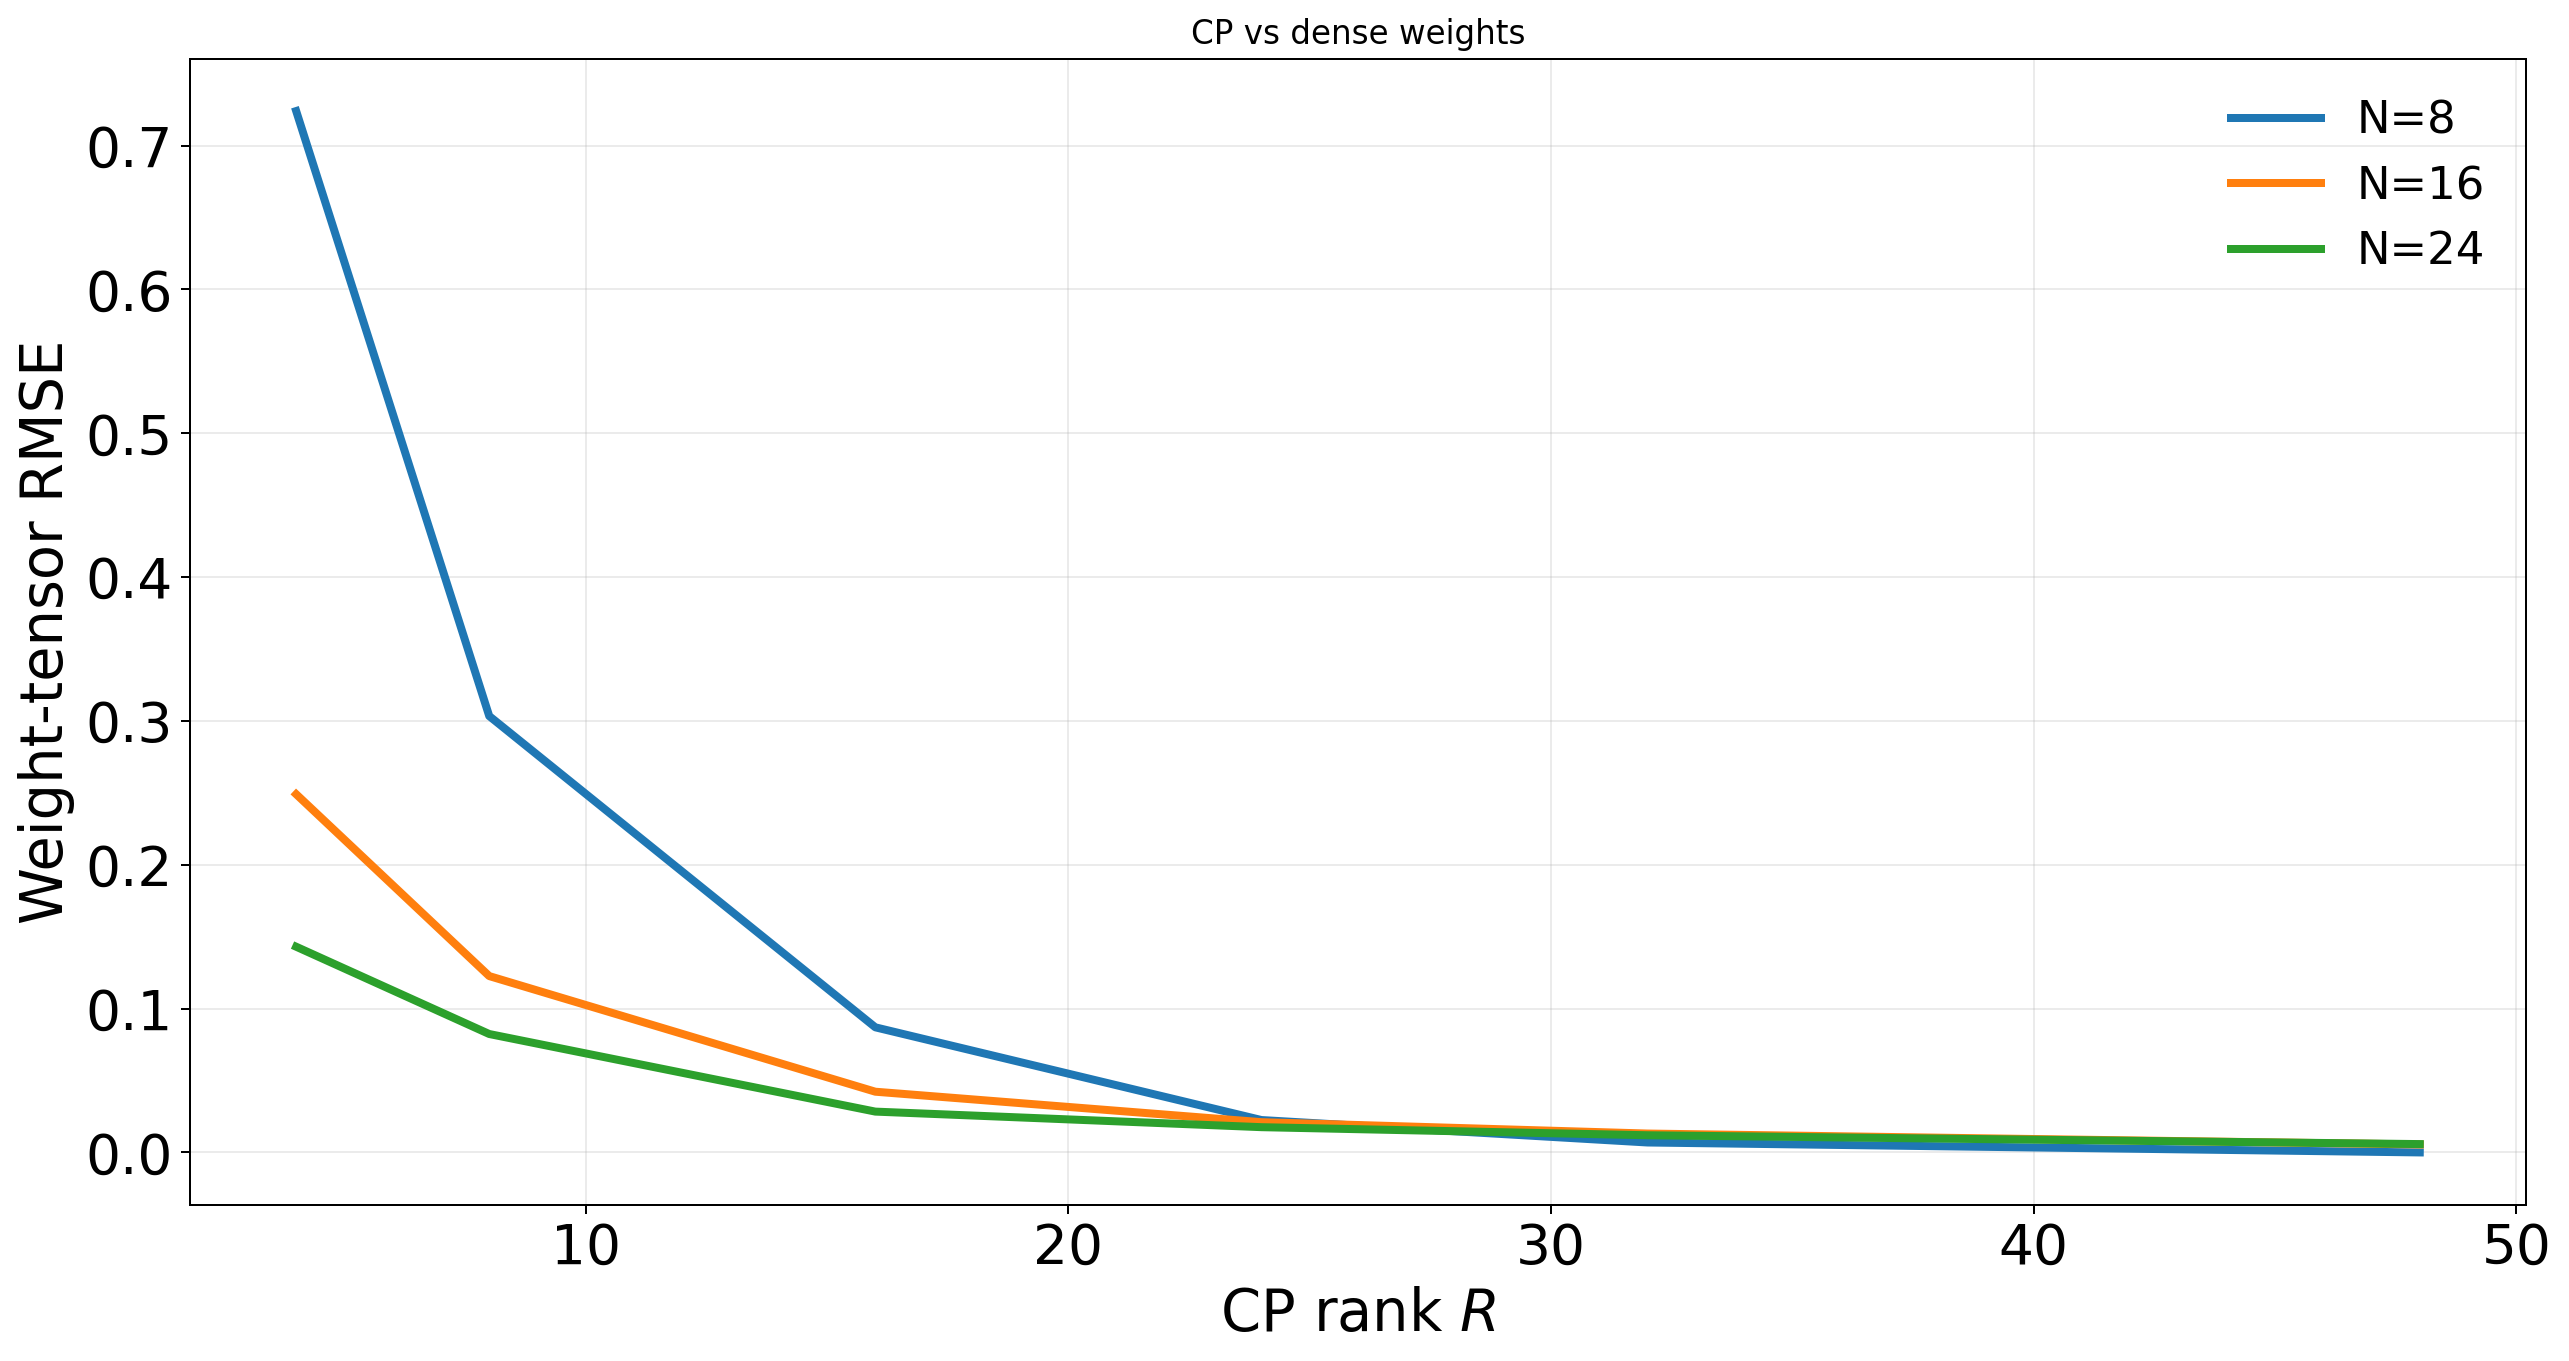
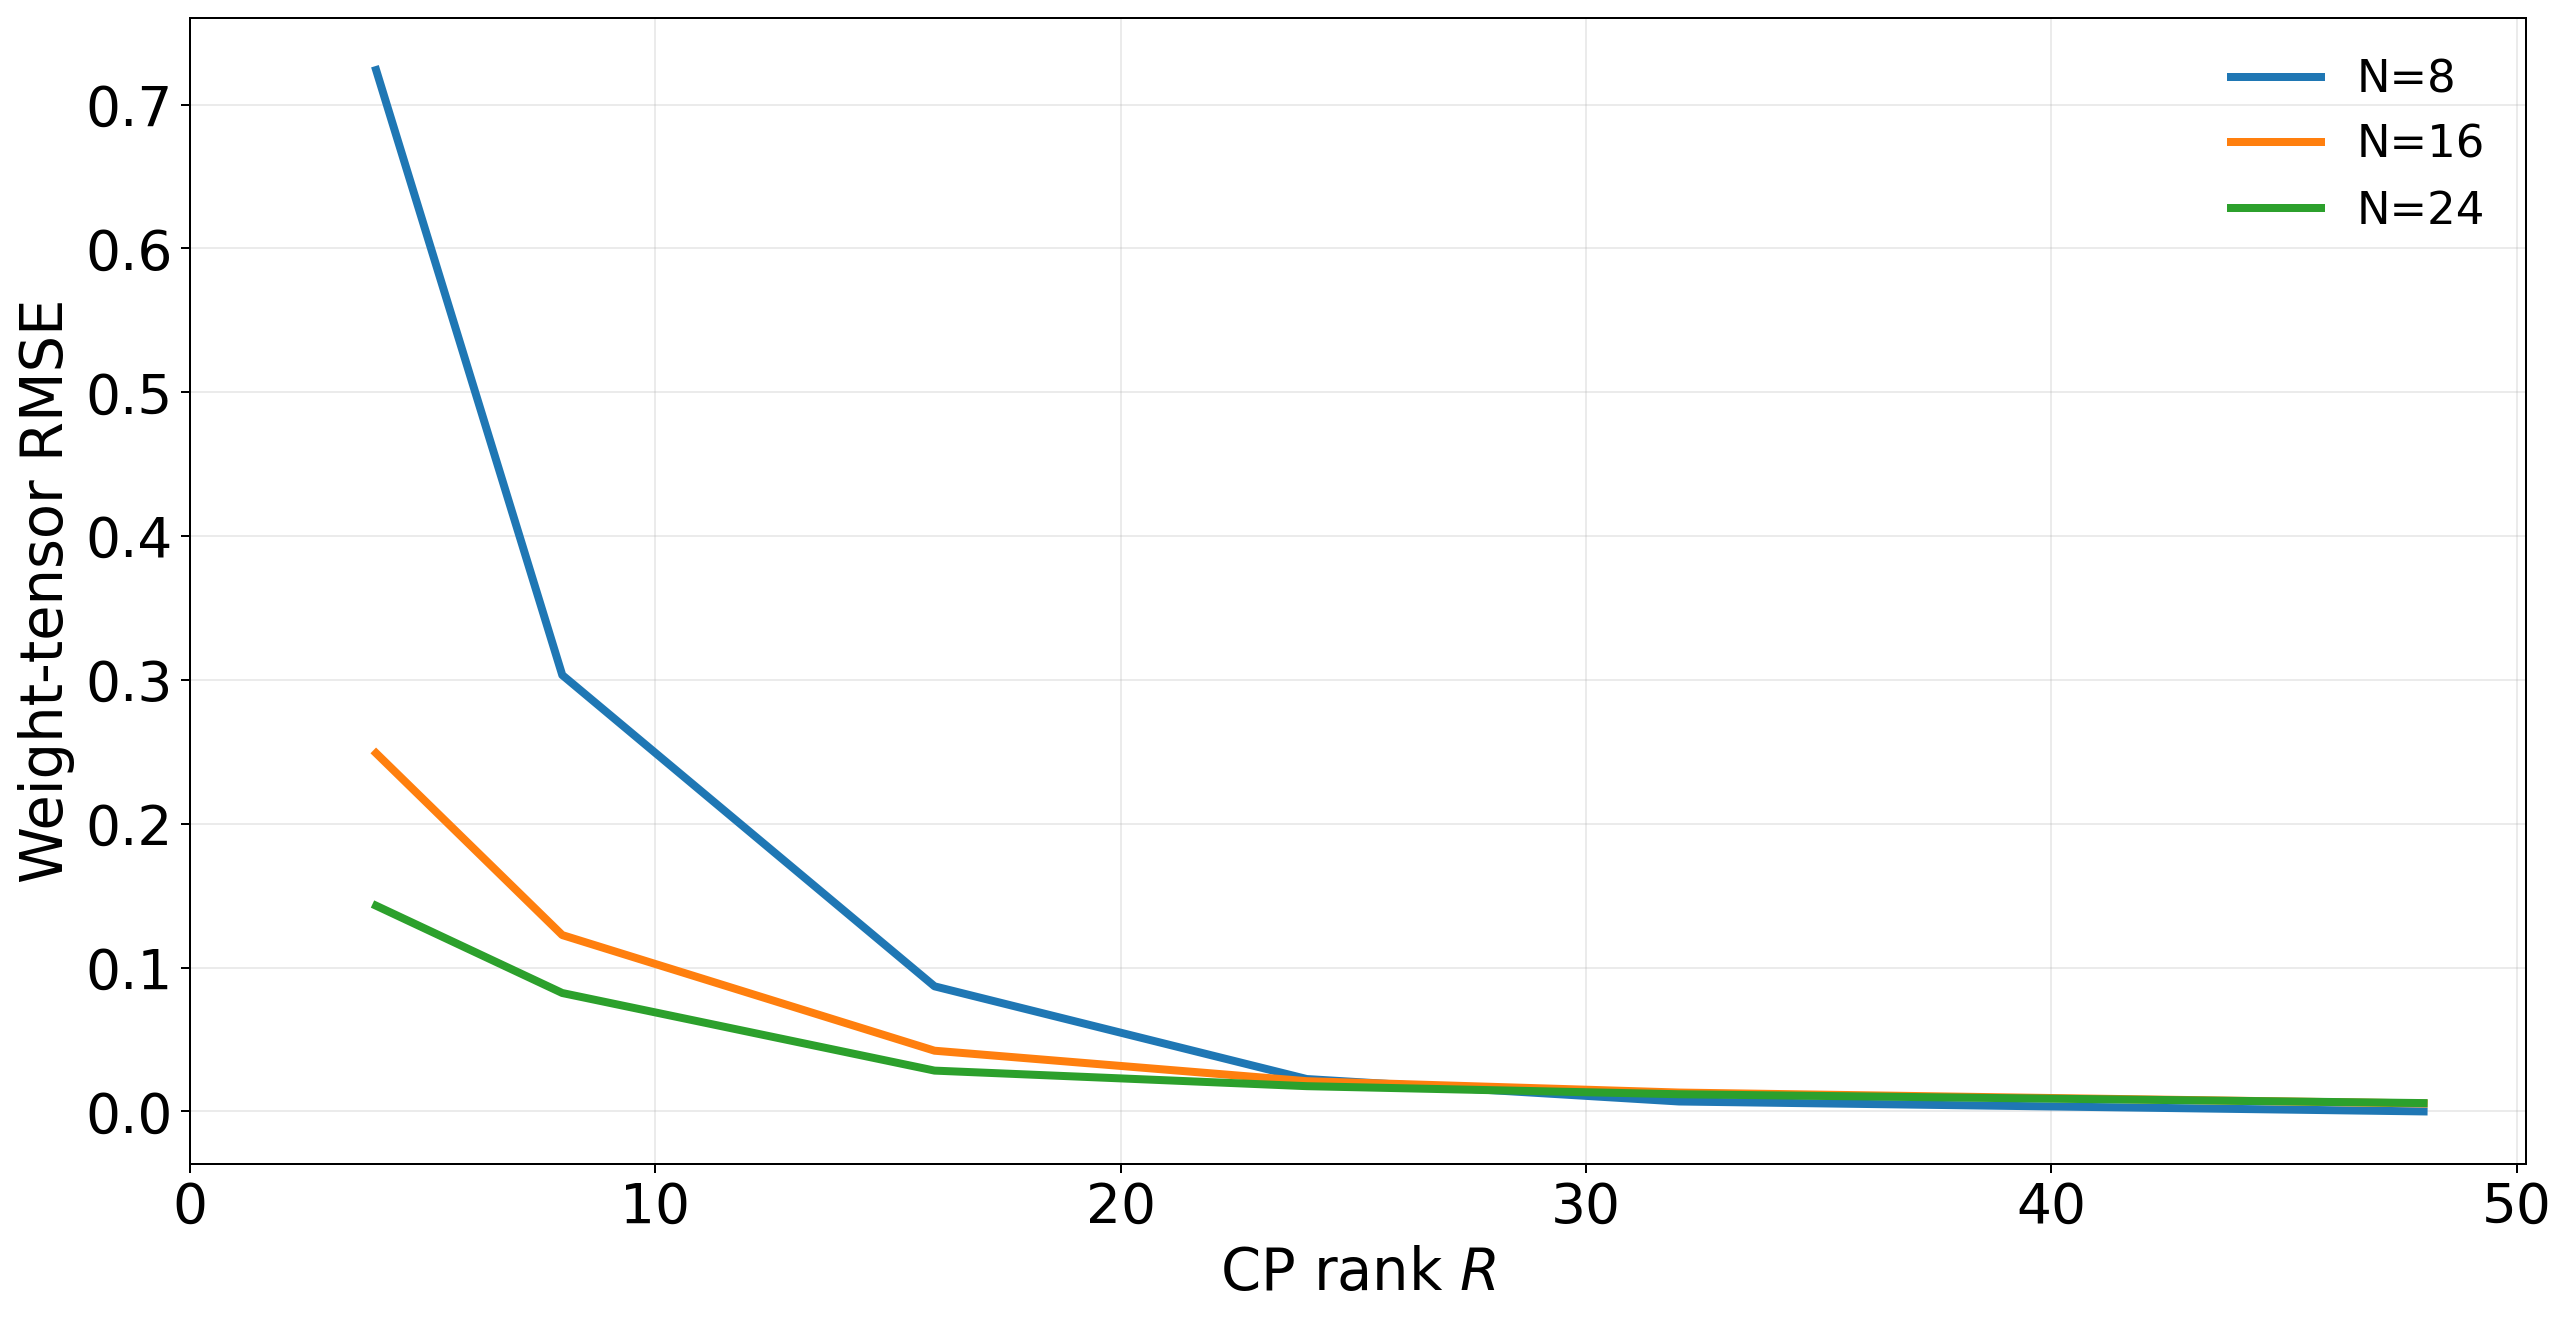
Refactor code structure for improved readability and maintainability

diff --git a/rank-trade-off/memory_rank_tradeoff.py b/rank-trade-off/memory_rank_tradeoff.py
@@ -1,5 +1,5 @@
 #!/usr/bin/env python3
-"""Independent GPU-runtime sweep for dense, CP and TT Bernstein RDF models."""
+"""Independent parameter-storage sweep for dense, CP and TT RDF models."""
 
 from __future__ import annotations
 
@@ -7,14 +7,8 @@ import csv
 import gc
 import shutil
 import sys
-import time
 from pathlib import Path
 
-import matplotlib
-
-matplotlib.use("Agg")
-import matplotlib.pyplot as plt
-import numpy as np
 import torch
 
 
@@ -39,39 +33,35 @@ LINK_NAME = "panda_link0"
 POLYNOMIAL_ORDERS = (8, 16, 24)
 CP_RANKS = (4, 8, 16, 24, 32, 48)
 TT_RANKS = (2, 4, 8, 12, 16, 24)
-DENSE_TRAIN_ITERS = 200
-CP_TRAIN_ITERS = 200
-TT_TRAIN_ITERS = 200
-RUNTIME_BATCH_SIZE = 10_000
-WARMUP_PASSES = 10
-TIMING_PASSES = 50
-RUNTIME_OUTLIER_MAD_Z = 3.5
-SEED = 0
+DENSE_TRAIN_ITERS = 100
+CP_TRAIN_ITERS = 100
+TT_TRAIN_ITERS = 100
+PEAK_BATCH_SIZE = 100_000
 DEVICE = "cuda"
 DTYPE = torch.float32
 
 WS_PATH = ROOT / "panda_test"
 RESULT_DIR = SCRIPT_DIR / "result"
-CSV_PATH = RESULT_DIR / f"{LINK_NAME}_runtime.csv"
+CSV_PATH = RESULT_DIR / f"{LINK_NAME}_memory.csv"
 
 
 def backup_models() -> list[tuple[Path, Path, bool]]:
-    saved = []
+    backups = []
     for suffix in ("_w.pt", "_cp.pt", "_tt.pt"):
         model = WS_PATH / "Models" / f"{LINK_NAME}{suffix}"
-        backup = model.with_name(model.name + ".runtime_backup")
+        backup = model.with_name(model.name + ".memory_backup")
         if backup.exists():
             shutil.copy2(backup, model)
             backup.unlink()
         existed = model.exists()
         if existed:
             shutil.copy2(model, backup)
-        saved.append((model, backup, existed))
-    return saved
+        backups.append((model, backup, existed))
+    return backups
 
 
-def restore_models(saved: list[tuple[Path, Path, bool]]) -> None:
-    for model, backup, existed in saved:
+def restore_models(backups: list[tuple[Path, Path, bool]]) -> None:
+    for model, backup, existed in backups:
         if existed and backup.exists():
             shutil.copy2(backup, model)
             backup.unlink()
@@ -79,44 +69,32 @@ def restore_models(saved: list[tuple[Path, Path, bool]]) -> None:
             model.unlink()
 
 
-def trim_outliers(values: np.ndarray) -> np.ndarray:
-    median = np.median(values)
-    mad = np.median(np.abs(values - median))
-    if mad <= np.finfo(values.dtype).eps:
-        return values
-    z = 0.6745 * (values - median) / mad
-    kept = values[np.abs(z) <= RUNTIME_OUTLIER_MAD_Z]
-    return kept if kept.size >= max(3, values.size // 2) else values
-
-
-def parameter_bytes(rdf, representation: str) -> int:
+def stored_parameter_bytes(rdf, representation: str) -> int:
     model = getattr(rdf, LINK_NAME + rdf.model_extension)
     tensors = (
         (model.weights,) if representation == "dense" else
         (model.A, model.B, model.C, model.lamd) if representation == "cp" else
         (model.G1, model.G2, model.G3)
     )
-    return sum(int(t.numel() * t.element_size()) for t in tensors)
+    return sum(int(tensor.numel() * tensor.element_size()) for tensor in tensors)
 
 
-def benchmark(rdf, representation: str) -> tuple[float, int]:
+@torch.inference_mode()
+def peak_gpu_bytes(rdf) -> int:
+    """Peak allocated GPU memory for one fixed inference batch."""
     model = getattr(rdf, LINK_NAME + rdf.model_extension)
-    generator = torch.Generator(device="cpu").manual_seed(SEED)
-    normalized = torch.rand((RUNTIME_BATCH_SIZE, 3), generator=generator, dtype=DTYPE) * 2.0 - 1.0
+    generator = torch.Generator(device="cpu").manual_seed(0)
+    normalized = torch.rand((PEAK_BATCH_SIZE, 3), generator=generator, dtype=DTYPE) * 2.0 - 1.0
     centroid = torch.as_tensor(model.centroid_offset, device=DEVICE, dtype=DTYPE).reshape(1, 3)
     scale = torch.as_tensor(model.scale_factor, device=DEVICE, dtype=DTYPE).reshape(1, 1)
     points = (normalized.to(DEVICE) * scale + centroid).contiguous()
-    for _ in range(WARMUP_PASSES):
-        rdf.sdf_kernel_for_tests(LINK_NAME, points, get_grad=False, get_min=False)
+
+    rdf.sdf_kernel_for_tests(LINK_NAME, points, get_grad=False, get_min=False)
     torch.cuda.synchronize()
-    samples = []
-    for _ in range(TIMING_PASSES):
-        torch.cuda.synchronize()
-        start = time.perf_counter()
-        rdf.sdf_kernel_for_tests(LINK_NAME, points, get_grad=False, get_min=False)
-        torch.cuda.synchronize()
-        samples.append((time.perf_counter() - start) * 1e3)
-    return float(np.median(trim_outliers(np.asarray(samples, dtype=np.float64)))), parameter_bytes(rdf, representation)
+    torch.cuda.reset_peak_memory_stats()
+    rdf.sdf_kernel_for_tests(LINK_NAME, points, get_grad=False, get_min=False)
+    torch.cuda.synchronize()
+    return int(torch.cuda.max_memory_allocated())
 
 
 def train_dense(n: int):
@@ -143,31 +121,11 @@ def train_tt(n: int, rank: int):
     return rdf
 
 
-def plot(rows: list[dict[str, object]]) -> None:
-    for representation, xlabel in (("cp", "CP rank $R$"), ("tt", "TT rank $r_1=r_2$")):
-        fig, ax = plt.subplots(figsize=(14.5, 8.6))
-        for color, n in zip(("tab:blue", "tab:orange", "tab:green"), POLYNOMIAL_ORDERS):
-            curve = sorted([r for r in rows if r["representation"] == representation and r["N"] == n], key=lambda r: r["rank"])
-            ax.plot([r["rank"] for r in curve], [r["runtime_ms"] for r in curve], color=color, linewidth=3.2, label=f"N={n}")
-            dense = next((r for r in rows if r["representation"] == "dense" and r["N"] == n), None)
-            if dense:
-                ax.axhline(dense["runtime_ms"], color=color, linestyle="--", linewidth=3.2, alpha=0.8)
-        ax.set_xlabel(xlabel, fontsize=23)
-        ax.set_ylabel("Inference time [ms]", fontsize=23)
-        ax.set_xlim(left=0.0)
-        ax.tick_params(axis="both", which="both", labelsize=22)
-        ax.grid(True, which="both", alpha=0.25)
-        ax.legend(frameon=False, fontsize=18)
-        fig.subplots_adjust(left=0.09, right=0.985, bottom=0.14, top=0.88)
-        fig.savefig(RESULT_DIR / f"{LINK_NAME}_{representation}_runtime_benchmark.png", dpi=180, bbox_inches="tight")
-        plt.close(fig)
-
-
 def main() -> None:
     if not torch.cuda.is_available():
-        raise RuntimeError("CUDA is required for this GPU runtime benchmark.")
+        raise RuntimeError("CUDA is required for the existing RDF training path.")
     RESULT_DIR.mkdir(parents=True, exist_ok=True)
-    saved = backup_models()
+    backups = backup_models()
     rows = []
     try:
         for n in POLYNOMIAL_ORDERS:
@@ -176,19 +134,20 @@ def main() -> None:
                     if representation == "tt" and rank > n:
                         continue
                     rdf = trainer(n) if representation == "dense" else trainer(n, rank)
-                    runtime_ms, storage = benchmark(rdf, representation)
-                    rows.append({"representation": representation, "N": n, "rank": rank, "runtime_ms": runtime_ms, "parameter_bytes": storage})
-                    print(f"{representation:>5s} N={n:2d} rank={rank:2d}: {runtime_ms:.4f} ms")
+                    byte_count = stored_parameter_bytes(rdf, representation)
+                    peak_bytes = peak_gpu_bytes(rdf)
+                    rows.append({"representation": representation, "N": n, "rank": rank, "parameter_bytes": byte_count, "parameter_kib": byte_count / 1024.0, "peak_gpu_bytes": peak_bytes, "peak_gpu_gb": peak_bytes / 1e9})
+                    print(f"{representation:>5s} N={n:2d} rank={rank:2d}: peak={peak_bytes / 1e9:.3f} GB")
                     del rdf
                     gc.collect()
                     torch.cuda.empty_cache()
         with CSV_PATH.open("w", newline="", encoding="utf-8") as handle:
-            writer = csv.DictWriter(handle, fieldnames=("representation", "N", "rank", "runtime_ms", "parameter_bytes"))
+            writer = csv.DictWriter(handle, fieldnames=("representation", "N", "rank", "parameter_bytes", "parameter_kib", "peak_gpu_bytes", "peak_gpu_gb"))
             writer.writeheader()
             writer.writerows(rows)
-        plot(rows)
     finally:
-        restore_models(saved)
+        restore_models(backups)
+    print(f"CSV: {CSV_PATH}")
 
 
 if __name__ == "__main__":

diff --git a/rank-trade-off/plot_memory_rank_tradeoff.py b/rank-trade-off/plot_memory_rank_tradeoff.py
@@ -1,0 +1,64 @@
+#!/usr/bin/env python3
+"""Plot CP and TT parameter storage from the independent memory CSV."""
+
+from __future__ import annotations
+
+import csv
+from pathlib import Path
+
+import matplotlib
+
+matplotlib.use("Agg")
+import matplotlib.pyplot as plt
+from matplotlib.lines import Line2D
+
+
+SCRIPT_DIR = Path(__file__).resolve().parent
+LINK_NAME = "panda_link0"
+CSV_PATH = SCRIPT_DIR / "result" / f"{LINK_NAME}_memory.csv"
+POLYNOMIAL_ORDERS = (8, 16, 24)
+COLORS = ("tab:blue", "tab:orange", "tab:green")
+
+
+def load_rows() -> list[dict[str, object]]:
+    with CSV_PATH.open(newline="", encoding="utf-8") as handle:
+        return [{"representation": row["representation"], "N": int(row["N"]), "rank": int(row["rank"]), "peak_gpu_gb": float(row["peak_gpu_gb"])} for row in csv.DictReader(handle)]
+
+
+def save_plot(rows: list[dict[str, object]], representation: str) -> None:
+    xlabel = "CP rank $R$" if representation == "cp" else "TT rank $r_1=r_2$"
+    fig, ax = plt.subplots(figsize=(14.5, 8.6))
+    for color, n in zip(COLORS, POLYNOMIAL_ORDERS):
+        curve = sorted([row for row in rows if row["representation"] == representation and row["N"] == n], key=lambda row: int(row["rank"]))
+        ax.plot([row["rank"] for row in curve], [row["peak_gpu_gb"] for row in curve], color=color, linewidth=3.2, label=f"N={n}")
+        dense = next((row for row in rows if row["representation"] == "dense" and row["N"] == n), None)
+        if dense:
+            ax.axhline(dense["peak_gpu_gb"], color=color, linestyle="--", linewidth=3.2, alpha=0.8)
+    ax.set_xlabel(xlabel, fontsize=23)
+    ax.set_ylabel("Peak GPU memory [GB]", fontsize=23)
+    ax.set_xlim(left=0.0)
+    ax.tick_params(axis="both", which="both", labelsize=22)
+    ax.grid(True, which="both", alpha=0.25)
+    legend_handles = [
+        Line2D([0], [0], color=color, linewidth=3.2, label=f"N={n}")
+        for color, n in zip(COLORS, POLYNOMIAL_ORDERS)
+    ]
+    legend_handles.append(
+        Line2D([0], [0], color="black", linestyle="--", linewidth=3.2, label="Dense reference")
+    )
+    ax.legend(handles=legend_handles, frameon=False, fontsize=18)
+    fig.subplots_adjust(left=0.09, right=0.985, bottom=0.14, top=0.88)
+    output_path = SCRIPT_DIR / "result" / f"{LINK_NAME}_{representation}_memory.png"
+    fig.savefig(output_path, dpi=180, bbox_inches="tight")
+    plt.close(fig)
+    print(f"PNG: {output_path}")
+
+
+def main() -> None:
+    rows = load_rows()
+    save_plot(rows, "cp")
+    save_plot(rows, "tt")
+
+
+if __name__ == "__main__":
+    main()

diff --git a/rank-trade-off/plot_rank_tradeoff_paper.py b/rank-trade-off/plot_rank_tradeoff_paper.py
@@ -299,9 +299,9 @@ def create_individual_figures(
                     if plotted_values:
                         ax.set_yscale("log")
 
-            ax.set_title(f"{title_prefix} — {ylabel}", fontsize=TITLE_FONT_SIZE)
             ax.set_xlabel(rank_label, fontsize=AXIS_LABEL_FONT_SIZE)
             ax.set_ylabel(ylabel, fontsize=AXIS_LABEL_FONT_SIZE)
+            ax.set_xlim(left=0.0)
             apply_axis_style(ax)
             ax.legend(
                 [f"N={order}" for order in orders if grouped_curve(rows, representation, order)],

diff --git a/rank-trade-off/plot_weight_rank_decomposition.py b/rank-trade-off/plot_weight_rank_decomposition.py
@@ -50,9 +50,9 @@ def save_plot(rows: list[dict[str, object]], representation: str, output_path: P
                 linewidth=3.2,
                 label=f"N={n_func}",
             )
-    ax.set_title(f"{representation.upper()} vs dense weights", fontsize=13)
     ax.set_xlabel(xlabel, fontsize=23)
     ax.set_ylabel("Weight-tensor RMSE", fontsize=23)
+    ax.set_xlim(left=0.0)
     ax.tick_params(axis="both", which="both", labelsize=22)
     ax.grid(True, which="both", alpha=0.25)
     ax.legend(frameon=False, fontsize=18)
